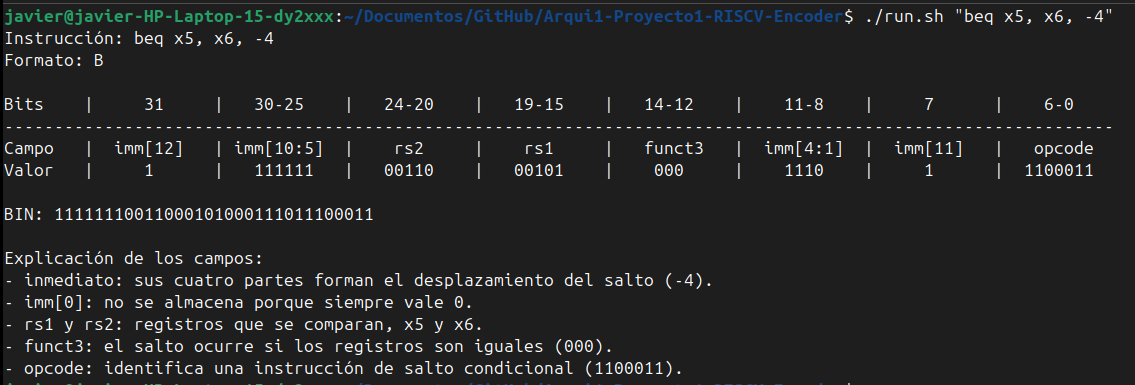
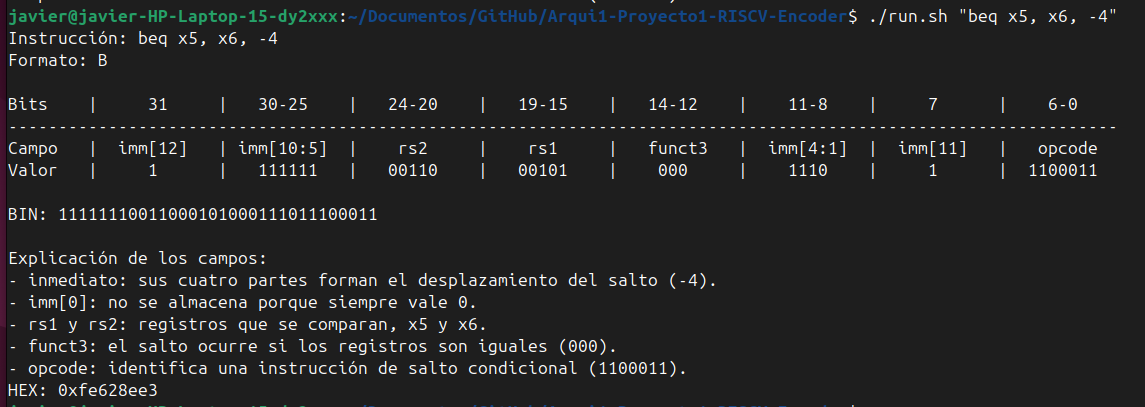
docs: ajustar documentación y estructura final del proyecto

diff --git a/README.md b/README.md
@@ -86,23 +86,32 @@ HEX: 0xXXXXXXXX
 
 ```text
 Arqui1-Proyecto1-RISCV-Encoder/
+├── .gitignore
+├── LICENSE
+├── README.md
 ├── encoder_skeleton.py
 ├── run.sh
-├── README.md
 ├── vectores_ejemplo.txt
 ├── validacion_resultados.md
 ├── tests/
 │   └── validate_against_toolchain.py
-└── docs/
-    └── img/
+├── docs/
+│   └── img/
+│       └── ss1.png ... ss8.png
+└── isa-encoder-riscv-kit-2026ii/
+    ├── README.md
+    └── especificacion-proyecto-individual-isa-encoder-riscv.pdf
 ```
 
+- `.gitignore`: evita agregar archivos temporales generados por Python.
+- `LICENSE`: contiene la licencia MIT utilizada para el repositorio.
 - `encoder_skeleton.py`: contiene el parser, las tablas de instrucciones, la codificación y la explicación visual.
 - `run.sh`: punto de entrada requerido para ejecutar el programa.
 - `vectores_ejemplo.txt`: contiene los ejemplos iniciales proporcionados con el kit del proyecto.
 - `validacion_resultados.md`: contiene la comparación de los 36 casos contra el toolchain oficial.
 - `tests/validate_against_toolchain.py`: compara el encoder con las herramientas oficiales de RISC-V.
 - `docs/img/`: contiene las capturas `ss1.png` a `ss8.png` utilizadas en este documento.
+- `isa-encoder-riscv-kit-2026ii/`: conserva la especificación y la documentación original del kit.
 
 ## Arquitectura del programa
 
@@ -232,4 +241,4 @@ Los valores de `opcode`, `funct3`, `funct7` y la distribución de los inmediatos
 
 [1] A. Waterman and K. Asanović, Eds., *The RISC-V Instruction Set Manual, Volume I: Unprivileged ISA*, document version 20191213. RISC-V Foundation, 2019, p. 130.
 
-[2] J. González Gómez, “Proyecto Individual: Codificador Educativo de Instrucciones RISC-V,” especificación de proyecto, CE-4301 Arquitectura de Computadores I, Instituto Tecnológico de Costa Rica, 2026.
+[2] J. González Gómez, “Proyecto Individual: Codificador Educativo de Instrucciones RISC-V,” especificación de proyecto, CE-4301 Arquitectura de Computadores I, Instituto Tecnológico de Costa Rica, 2026. [En línea]. Disponible en: [especificacion-proyecto-individual-isa-encoder-riscv.pdf](isa-encoder-riscv-kit-2026ii/especificacion-proyecto-individual-isa-encoder-riscv.pdf)
